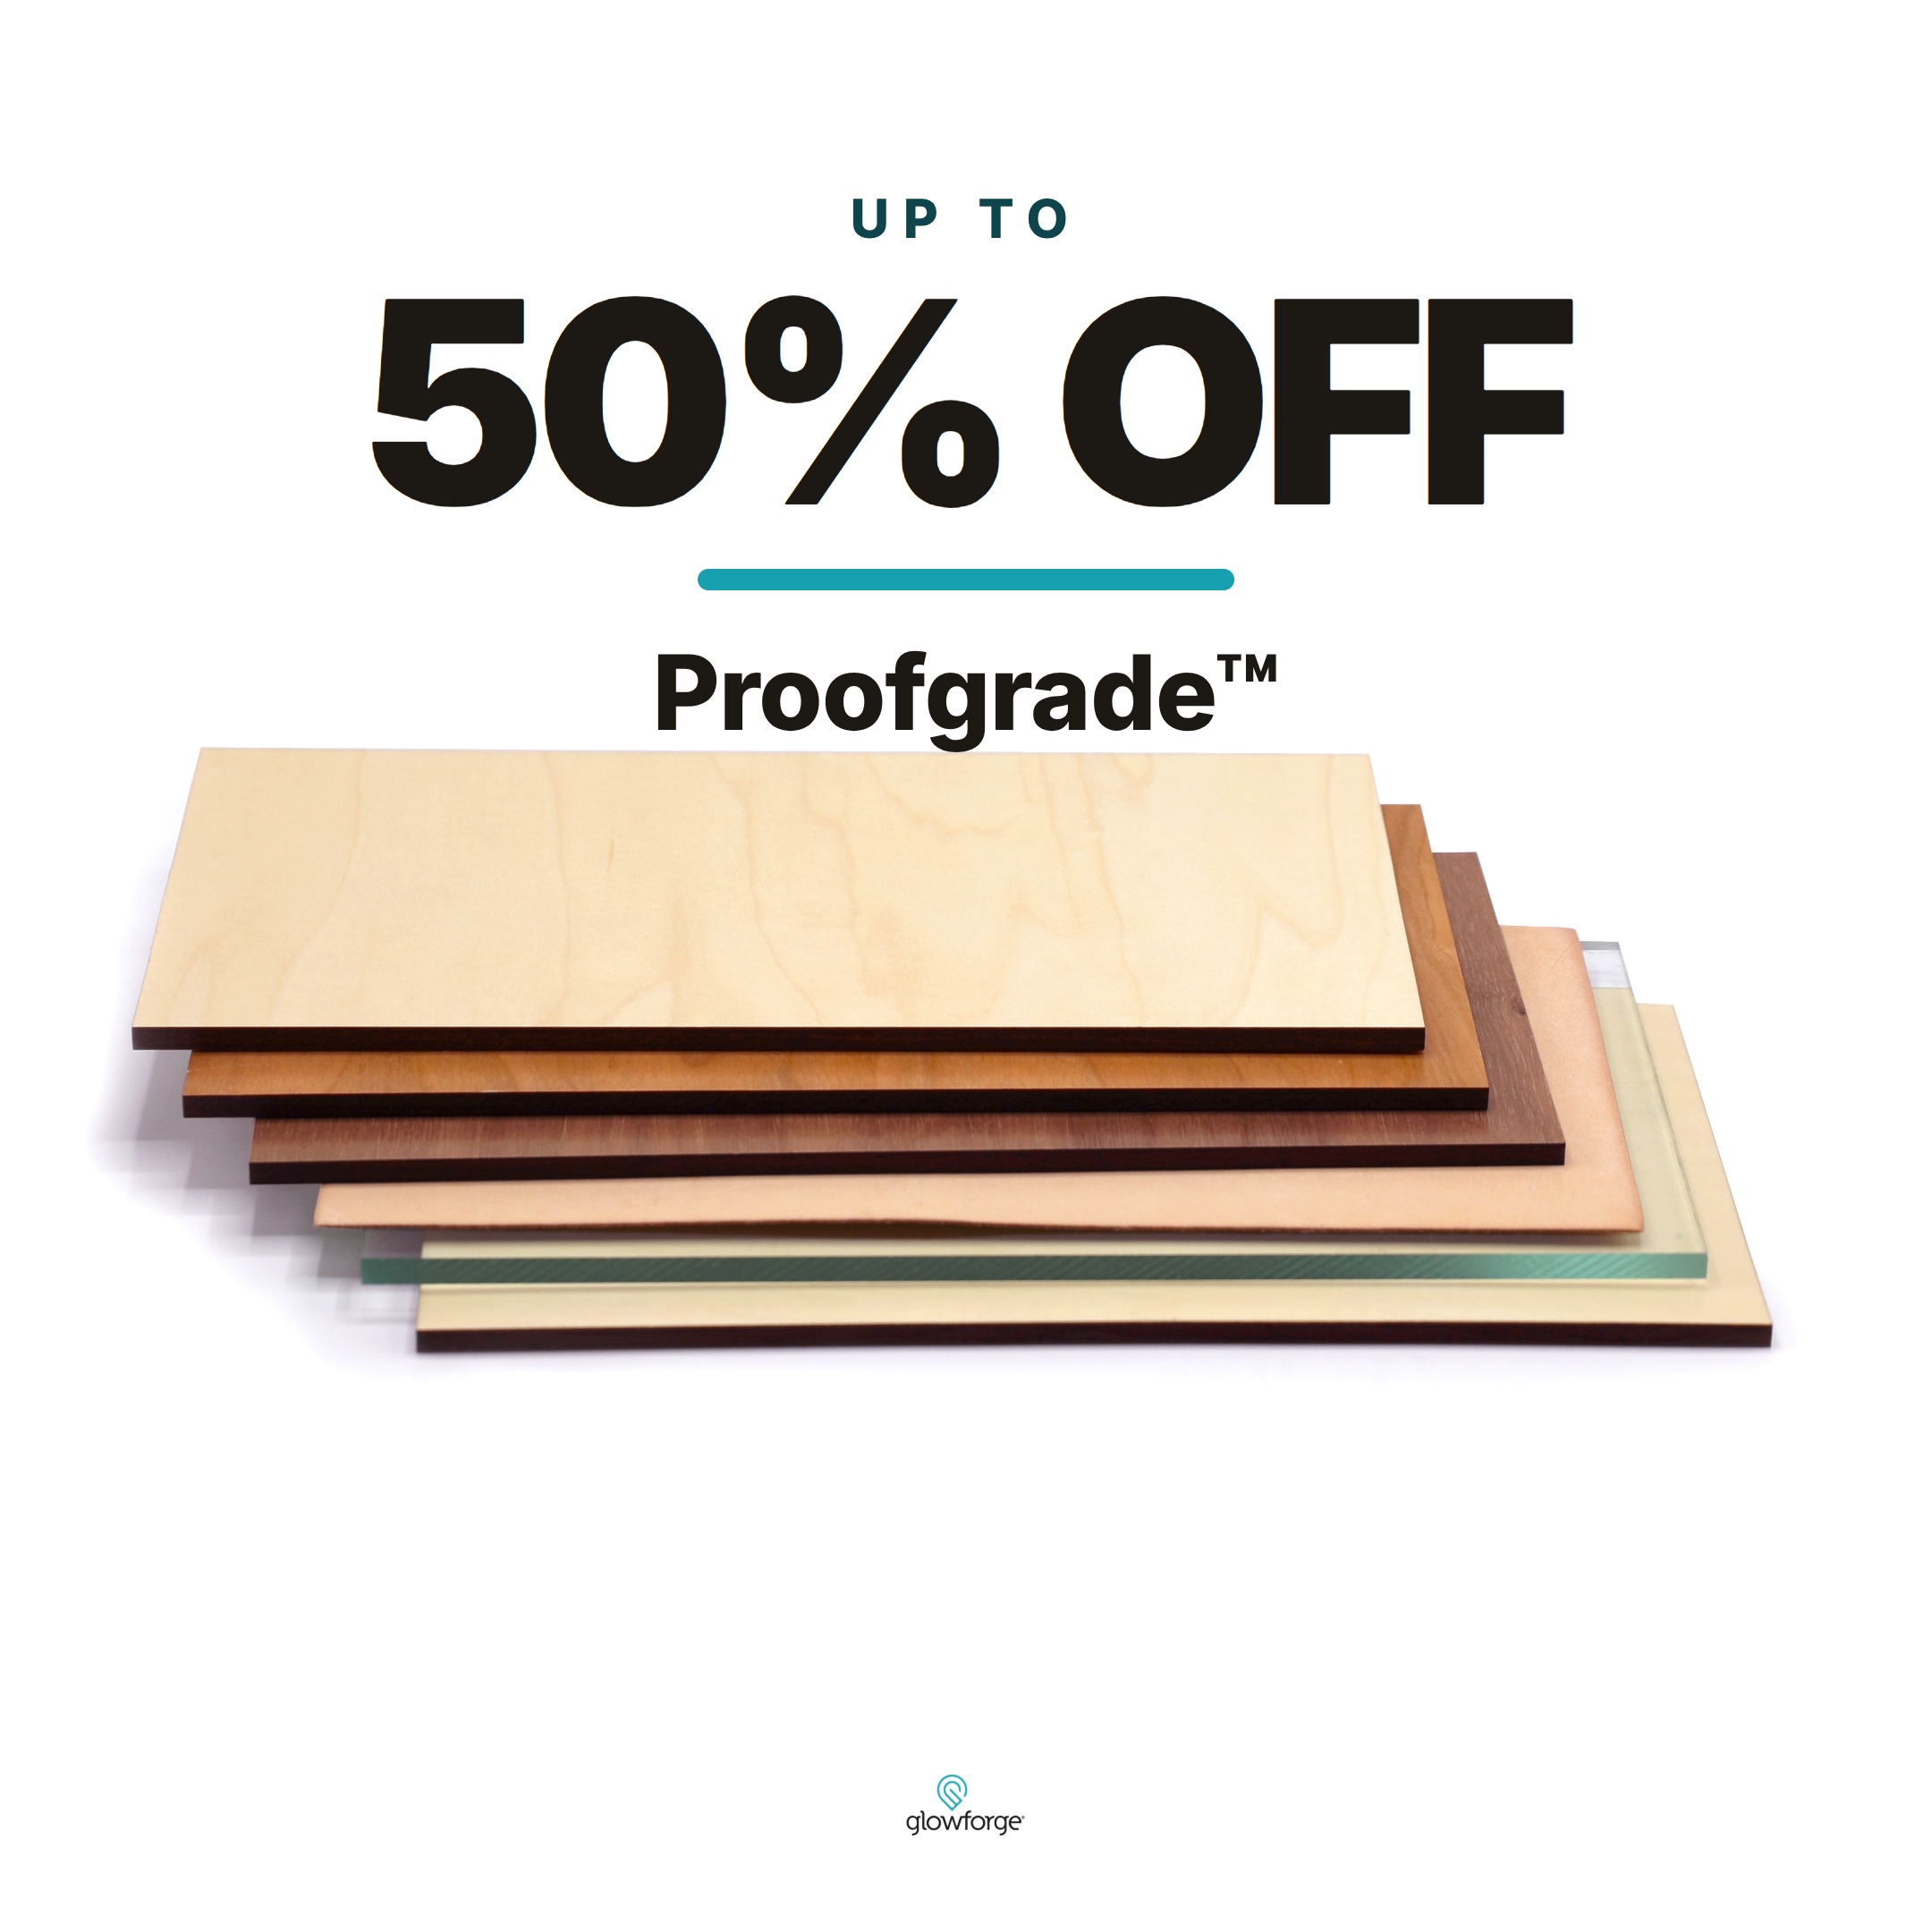
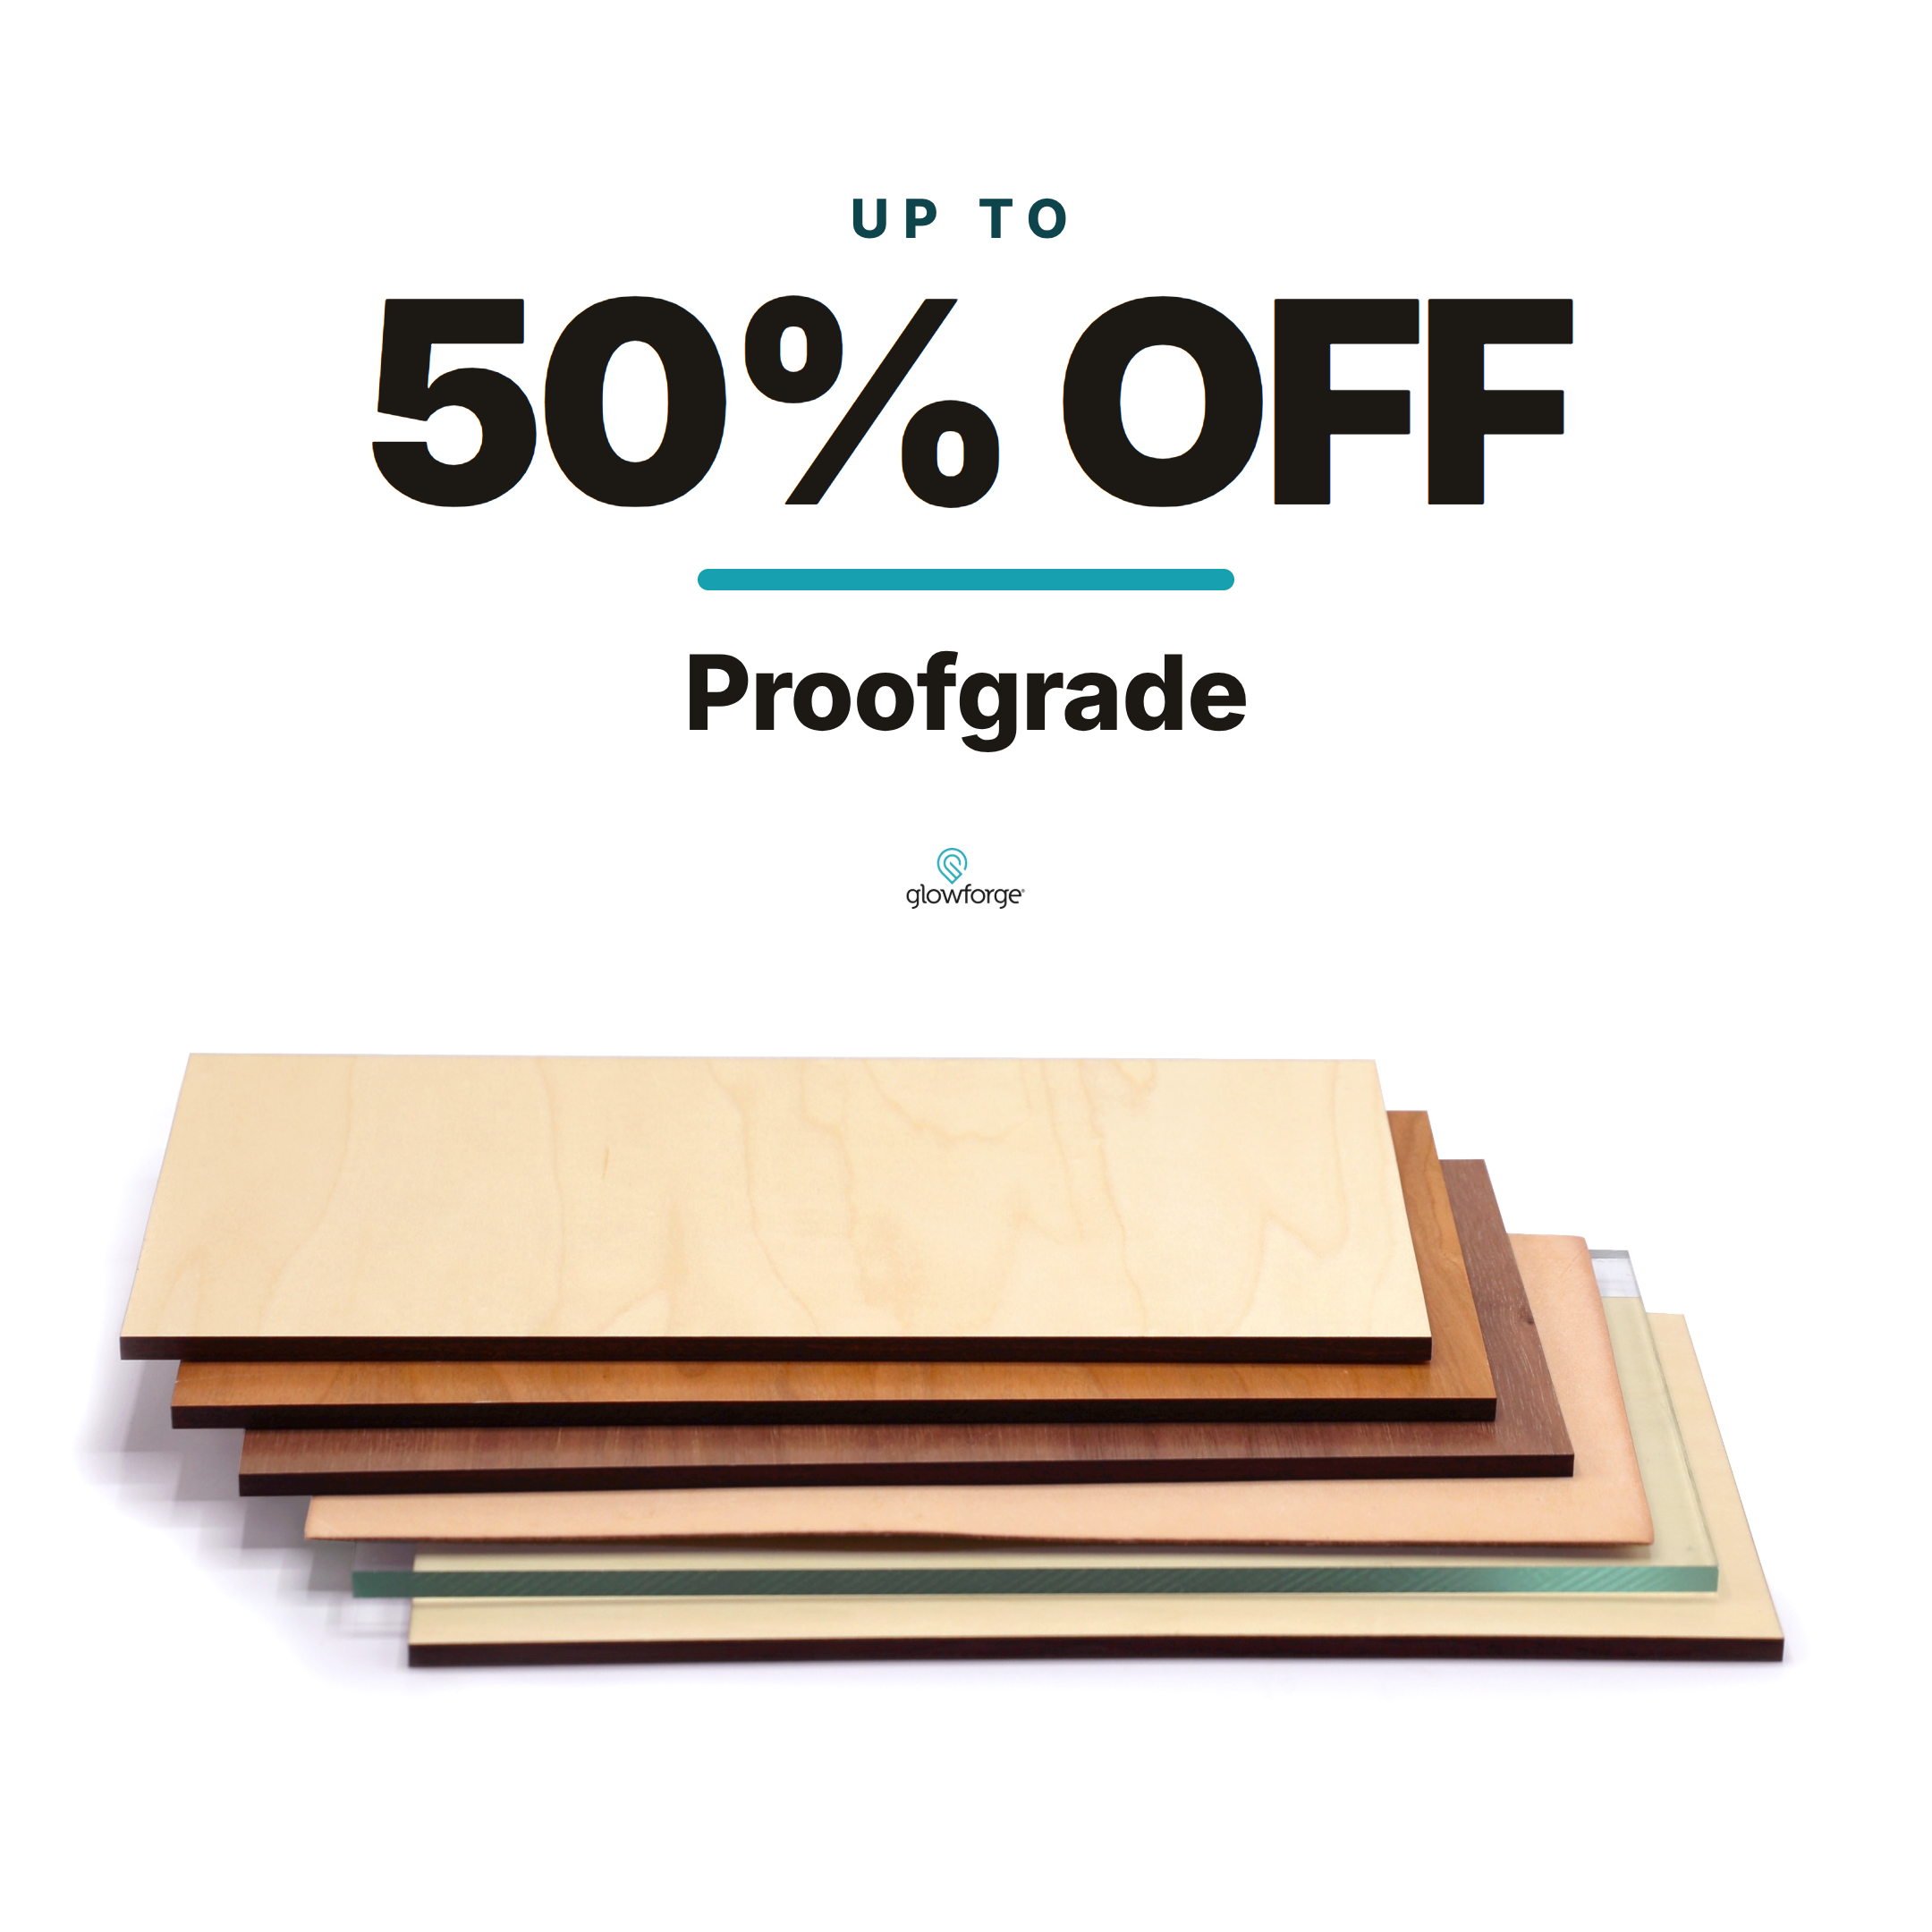
Proofgrade promo: drop TM, lower the material stack to fill the bottom
Claude-Session: https://claude.ai/code/session_01BkpzFSLZ8yR9LMrEBpeFEy

diff --git a/scripts/render-proofgrade.ts b/scripts/render-proofgrade.ts
@@ -17,13 +17,13 @@ async function main() {
     *{box-sizing:border-box;margin:0;padding:0}
     .stage{position:relative;width:${W}px;height:${H}px;font-family:'Inter',sans-serif;overflow:hidden;background:#fff}
     /* material stack: full width, anchored to the bottom; its own white blends with the stage */
-    .photo{position:absolute;left:50%;bottom:30px;transform:translateX(-50%);width:1380px}
+    .photo{position:absolute;left:50%;bottom:-150px;transform:translateX(-50%);width:1400px}
     .txt{position:absolute;top:0;left:0;width:${W}px;text-align:center}
     .eyebrow{margin-top:104px;font-weight:800;font-size:30px;letter-spacing:.26em;text-transform:uppercase;color:var(--deep)}
     .big{margin-top:14px;font-weight:900;font-size:158px;letter-spacing:-.04em;line-height:.9;color:var(--ink)}
     .rule{width:300px;height:12px;background:var(--teal);border-radius:8px;margin:22px auto 0}
     .prod{margin-top:22px;font-weight:800;font-size:58px;letter-spacing:-.01em;color:var(--ink)}
-    .logo{position:absolute;left:50%;transform:translateX(-50%);bottom:54px}
+    .logo{position:absolute;left:50%;transform:translateX(-50%);top:474px}
     .logo img{height:34px;display:block;opacity:.9}
   </style></head><body>
     <div class="stage">
@@ -32,7 +32,7 @@ async function main() {
         <div class="eyebrow">Up&nbsp;to</div>
         <div class="big">50% OFF</div>
         <div class="rule"></div>
-        <div class="prod">Proofgrade&trade;</div>
+        <div class="prod">Proofgrade</div>
       </div>
       <div class="logo"><img src="${logo}"/></div>
     </div>